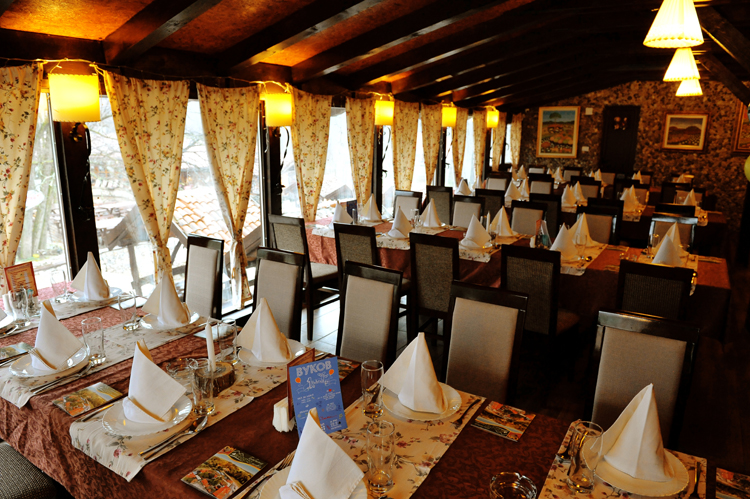
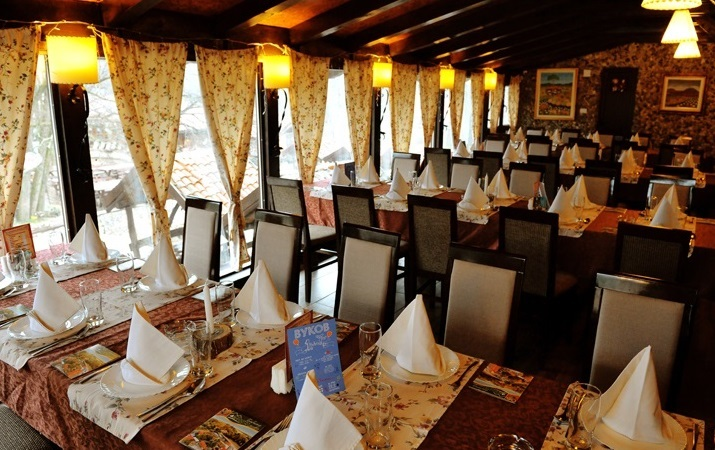
sr rest

diff --git a/restorani.html b/restorani.html
@@ -1,8 +1,7 @@
 <!DOCTYPE html>
 <html lang="en">
 
-<!-- Mirrored from www.eagle-themes.com/zantehotel/gallery-withoutfilters.html by HTTrack Website Copier/3.x [XR&CO'2014], Tue, 14 Feb 2017 14:40:24 GMT -->
-<!-- Added by HTTrack --><meta http-equiv="content-type" content="text/html;charset=utf-8" /><!-- /Added by HTTrack -->
+
 <head>
     <meta charset="utf-8">
     <meta content="IE=edge" http-equiv="X-UA-Compatible">
@@ -10,9 +9,7 @@
 
     <!-- ========== SEO ========== -->
     <title>Etno selo Babina reka - Restorani</title>    
-    <meta content="Hotel & Resort HTML Template - Zante Hotel" name="description">
-    <meta content="Website Templates, Hotel Themes, Hotel Templates, Booking Themes, Booking Templates, Travel Themes, Travel Template, Hotel Site" name="keywords">
-    <meta content="Eagle-Themes" name="author">
+    
     
     <!-- ========== FAVICON ========== -->
     <link rel="apple-touch-icon-precomposed" href="images/logo_poc.png"/>
@@ -32,12 +29,6 @@
     <!-- ========== GOOGLE FONTS ========== -->
     <link href="https://fonts.googleapis.com/css?family=Lato:300,400,700,900%7cRaleway:400,500,600,700" rel="stylesheet">
 
-    <!-- HTML5 shim and Respond.js for IE8 support of HTML5 elements and media queries -->
-    <!-- WARNING: Respond.js doesn't work if you view the page via file:// -->
-    <!--[if lt IE 9]>
-    <script src="https://oss.maxcdn.com/html5shiv/3.7.2/html5shiv.min.js"></script>
-    <script src="https://oss.maxcdn.com/respond/1.4.2/respond.min.js"></script>
-    <![endif]-->
 </head>
 
 <body>
@@ -127,7 +118,7 @@
                                 <figure>
                                     <div class="price">80 mesta</div>
                                     <a class="hover_effect h_blue h_link" href="srednjiRestoran.html">
-                                        <img src="images/gallery/restorani/srednjiRestoran80/Etno selo babina reka restoran 80.jpg" class="img-responsive" alt="Image">
+                                        <img src="images/gallery/restorani/srednjiRestoran80/DSC_8429.jpg" class="img-responsive" alt="Image">
                                     </a>
                                     <figcaption>
                                         <h4><a href="srednjiRestoran.html">Restoran Terasa</a></h4>
